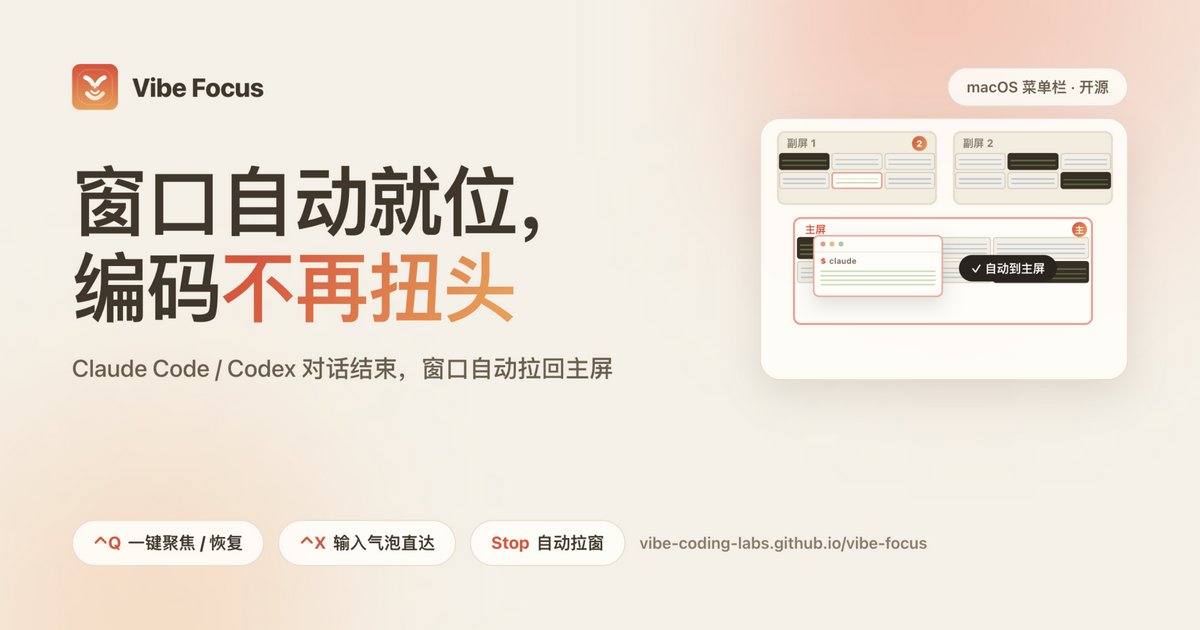
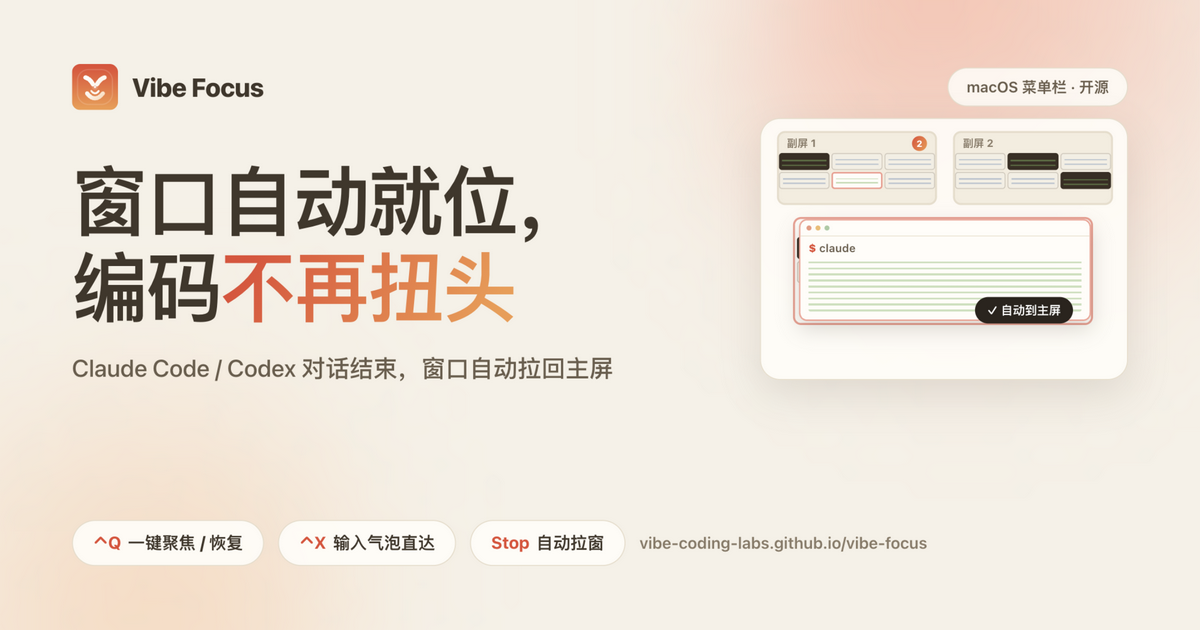
fix(website): 落位改为主屏全屏铺满+归位精确对齐格子
用户指正：移到主屏时应全屏（此前只占 72% 右侧留缝）；归位时位置不对
（铺满改版后格子位移，fly rest 还是旧布局实测的旧坐标）。

- 实测回填：rest=副屏 1 方阵格(2,2) 新坐标 (20.5%/30.57%/13.14%/10.64%)，
  落位=主屏矩形内缩菜单栏+3px 全屏贴边 (10.62%/57.72%/78.76%/34.34%)，
  弧线中段帧按新端点重算
- 手动落位坐标截图验证：左右贴边/顶部贴菜单栏/底部贴屏幕底缘，零缝隙
- 暗色 GIF/MP4 同构重算（rest(159,184,103,67)→落位(123,314,554,164) 全屏），
  31 帧/页 animation:none 重置法精确重采，抽帧核对落位/归位相位
- og-image 主屏窗口改铺满态

构建零告警。

Changed region(s): [[0.6475, 0.3317, 0.925, 0.5127]]

diff --git a/website/src/styles.css b/website/src/styles.css
@@ -588,19 +588,20 @@ code {
   animation: wf-fly 7.5s cubic-bezier(0.55, 0, 0.25, 1) infinite;
 }
 
-/* 三段式：拾起(8-14%) → 弧线飞行(14-26%) → 落定回弹(26-32%) → 保持 → 返程对称 */
+/* 三段式：拾起(8-14%) → 弧线飞行(14-26%) → 落定回弹(26-32%) → 保持 → 返程对称
+   rest/落位均为实测坐标：rest=副屏 1 方阵格(2,2)，落位=主屏菜单栏以下全屏贴边 */
 @keyframes wf-fly {
-  0%, 8%   { left: 21.41%; top: 27.07%; width: 11.33%; height: 7.17%; }
-  14%      { left: 20.9%; top: 25.6%; width: 12.8%; height: 8.1%; }
-  20%      { left: 26%; top: 34%; width: 26%; height: 15%; }
-  26%      { left: 15.2%; top: 54.2%; width: 72.8%; height: 34.6%; }
-  29%      { left: 13.8%; top: 55.2%; width: 73.4%; height: 34.9%; }
-  32%, 52% { left: 14%; top: 55.5%; width: 72%; height: 34%; }
-  58%      { left: 17%; top: 50%; width: 58%; height: 27%; }
-  66%      { left: 25%; top: 36%; width: 28%; height: 16%; }
-  74%      { left: 20.6%; top: 25.4%; width: 13%; height: 8.2%; }
-  78%      { left: 21.2%; top: 26.9%; width: 11.6%; height: 7.3%; }
-  81%, 100% { left: 21.41%; top: 27.07%; width: 11.33%; height: 7.17%; }
+  0%, 8%    { left: 20.5%; top: 30.57%; width: 13.14%; height: 10.64%; }
+  14%       { left: 20.1%; top: 29.6%; width: 14.4%; height: 11.7%; }
+  20%       { left: 23.5%; top: 38.5%; width: 30%; height: 16%; }
+  26%       { left: 10.62%; top: 57.72%; width: 78.76%; height: 34.34%; }
+  29%       { left: 10.32%; top: 57.42%; width: 79.36%; height: 34.64%; }
+  32%, 52%  { left: 10.62%; top: 57.72%; width: 78.76%; height: 34.34%; }
+  58%       { left: 19.5%; top: 46%; width: 45%; height: 20%; }
+  66%       { left: 21.5%; top: 36%; width: 22%; height: 13%; }
+  74%       { left: 20.1%; top: 29.6%; width: 14.3%; height: 11.7%; }
+  78%       { left: 20.4%; top: 30.4%; width: 13.4%; height: 10.9%; }
+  81%, 100% { left: 20.5%; top: 30.57%; width: 13.14%; height: 10.64%; }
 }
 
 .wf-fly-seg1 { animation-timing-function: cubic-bezier(0.4, 0, 0.6, 1); }
